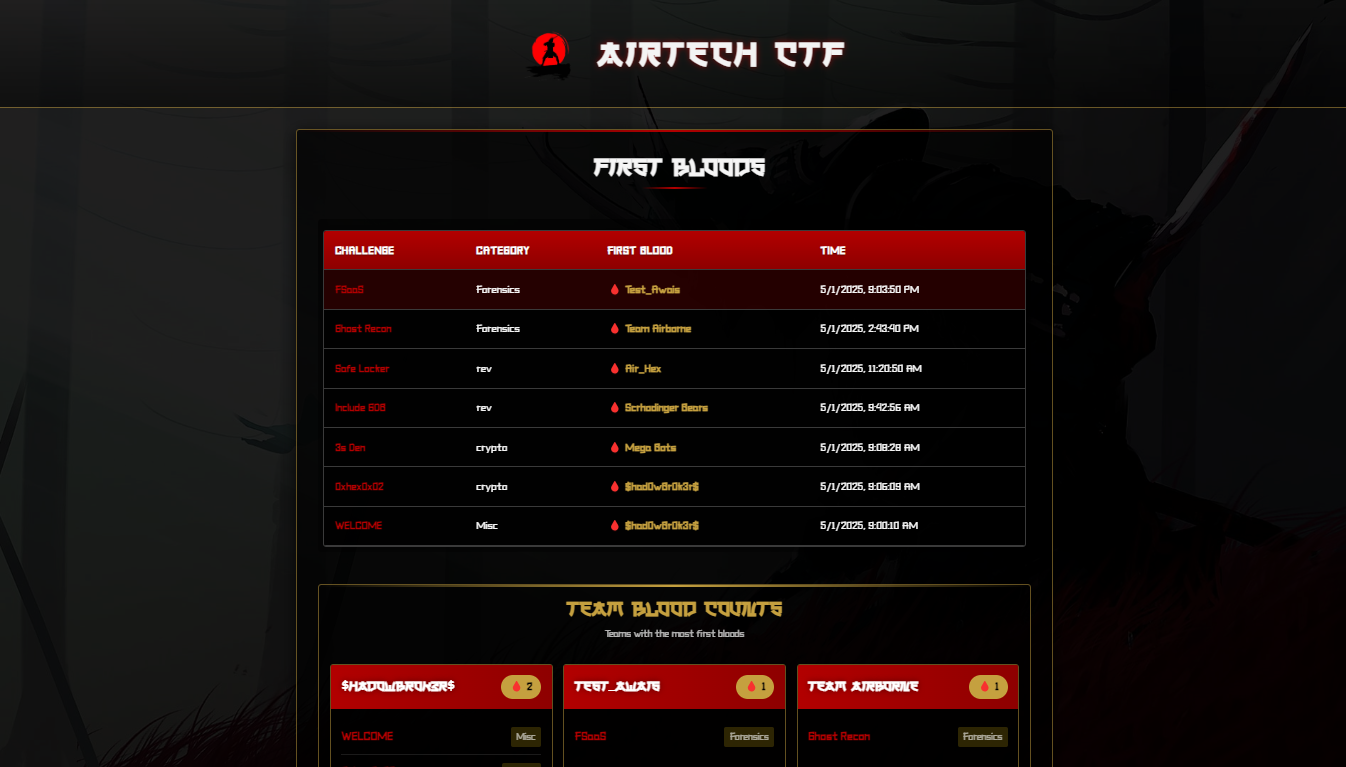
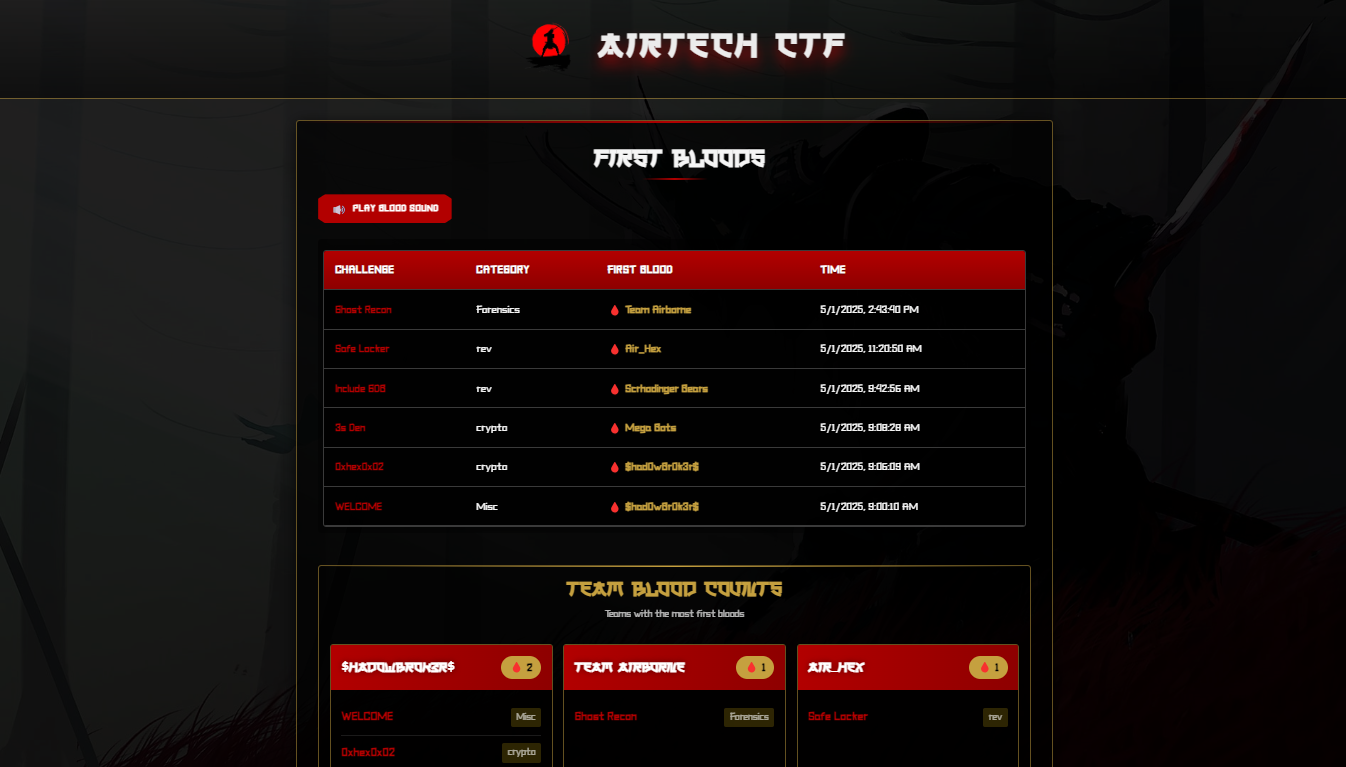
Updated scoreboard screenshot

diff --git a/static/css/styles.css b/static/css/styles.css
@@ -111,6 +111,12 @@ h1, h2, h3 {
     }
 }
 
+
+.ctf-title {
+    animation: flicker 16s infinite;
+    text-shadow: 0px 15px 20px rgba(255, 0, 0, 0.5);
+}
+
 .samurai-emblem.left {
     background-image: url('../img/sideicon.png');
 }
@@ -277,6 +283,11 @@ main {
     overflow: hidden;
     /* Japanese-inspired angled corners */
     clip-path: polygon(5% 0%, 95% 0%, 100% 15%, 100% 85%, 95% 100%, 5% 100%, 0% 85%, 0% 15%);
+    /* Center content */
+    display: inline-flex;
+    align-items: center;
+    justify-content: center;
+    gap: 0.5rem;
 }
 
 .samurai-btn:before {
@@ -306,8 +317,9 @@ main {
 }
 
 .btn-icon {
-    display: inline-block;
-    margin-right: 5px;
+    display: inline-flex;
+    align-items: center;
+    justify-content: center;
     font-size: 1.1rem;
 }
 
@@ -663,6 +675,8 @@ footer a:hover::after {
     border-radius: 3px;
 }
 
+
+
 /* Media Queries */
 @media (max-width: 768px) {
     .site-title {
@@ -944,7 +958,7 @@ footer a:hover::after {
     95% { opacity: 0.6; }
     100% { opacity: 1; }
 }
-.flicker-text {
+/* .flicker-text {
     animation: flicker 16s infinite;
     text-shadow: 0 0 10px rgba(255, 0, 0, 0.5);
-}
+} */

diff --git a/index.html b/index.html
@@ -26,7 +26,7 @@
                 <h1 class="site-title">
                     <!-- <span class="kanji"></span>  -->
                     <!-- <span style="animation: fadeIn 1s ease-out forwards;">AIRTECH CTF </span></h1> -->
-                    <span class="flicker-text">AIRTECH CTF </span></h1>
+                    <span class="ctf-title">AIRTECH CTF </span></h1>
             </div>
             <!-- <div class="samurai-emblem right"></div> -->
         </div>
